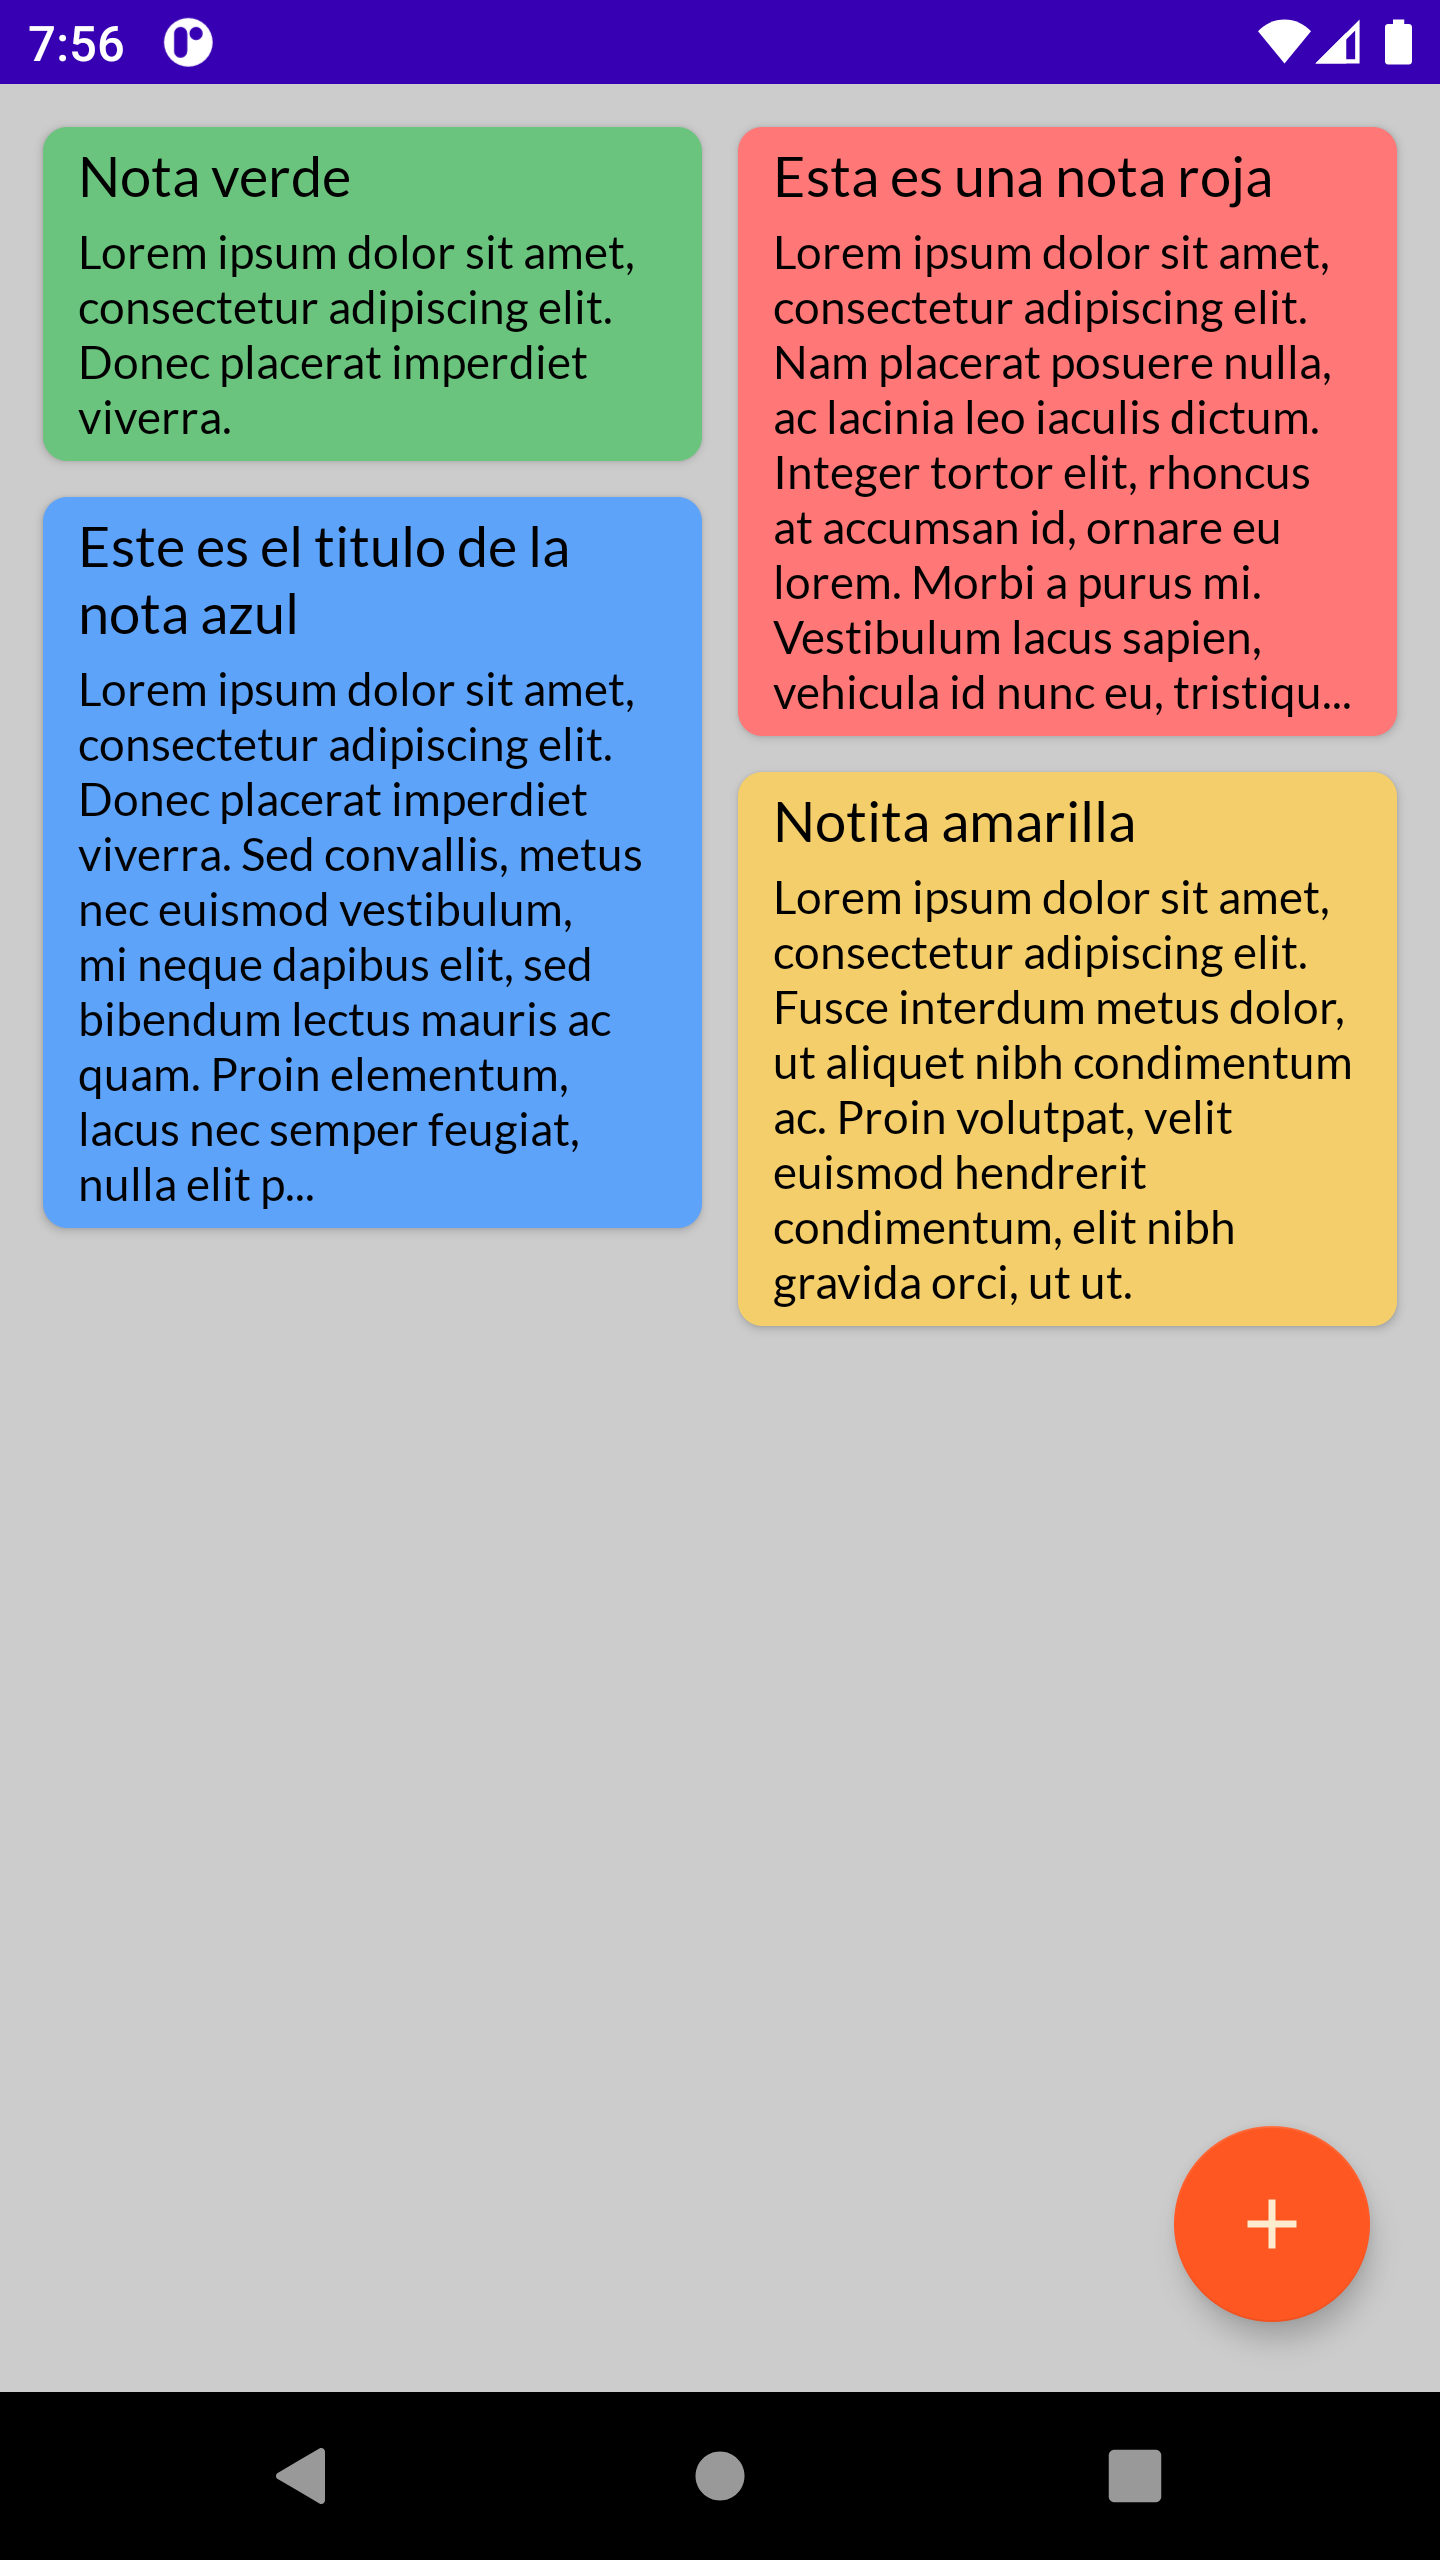
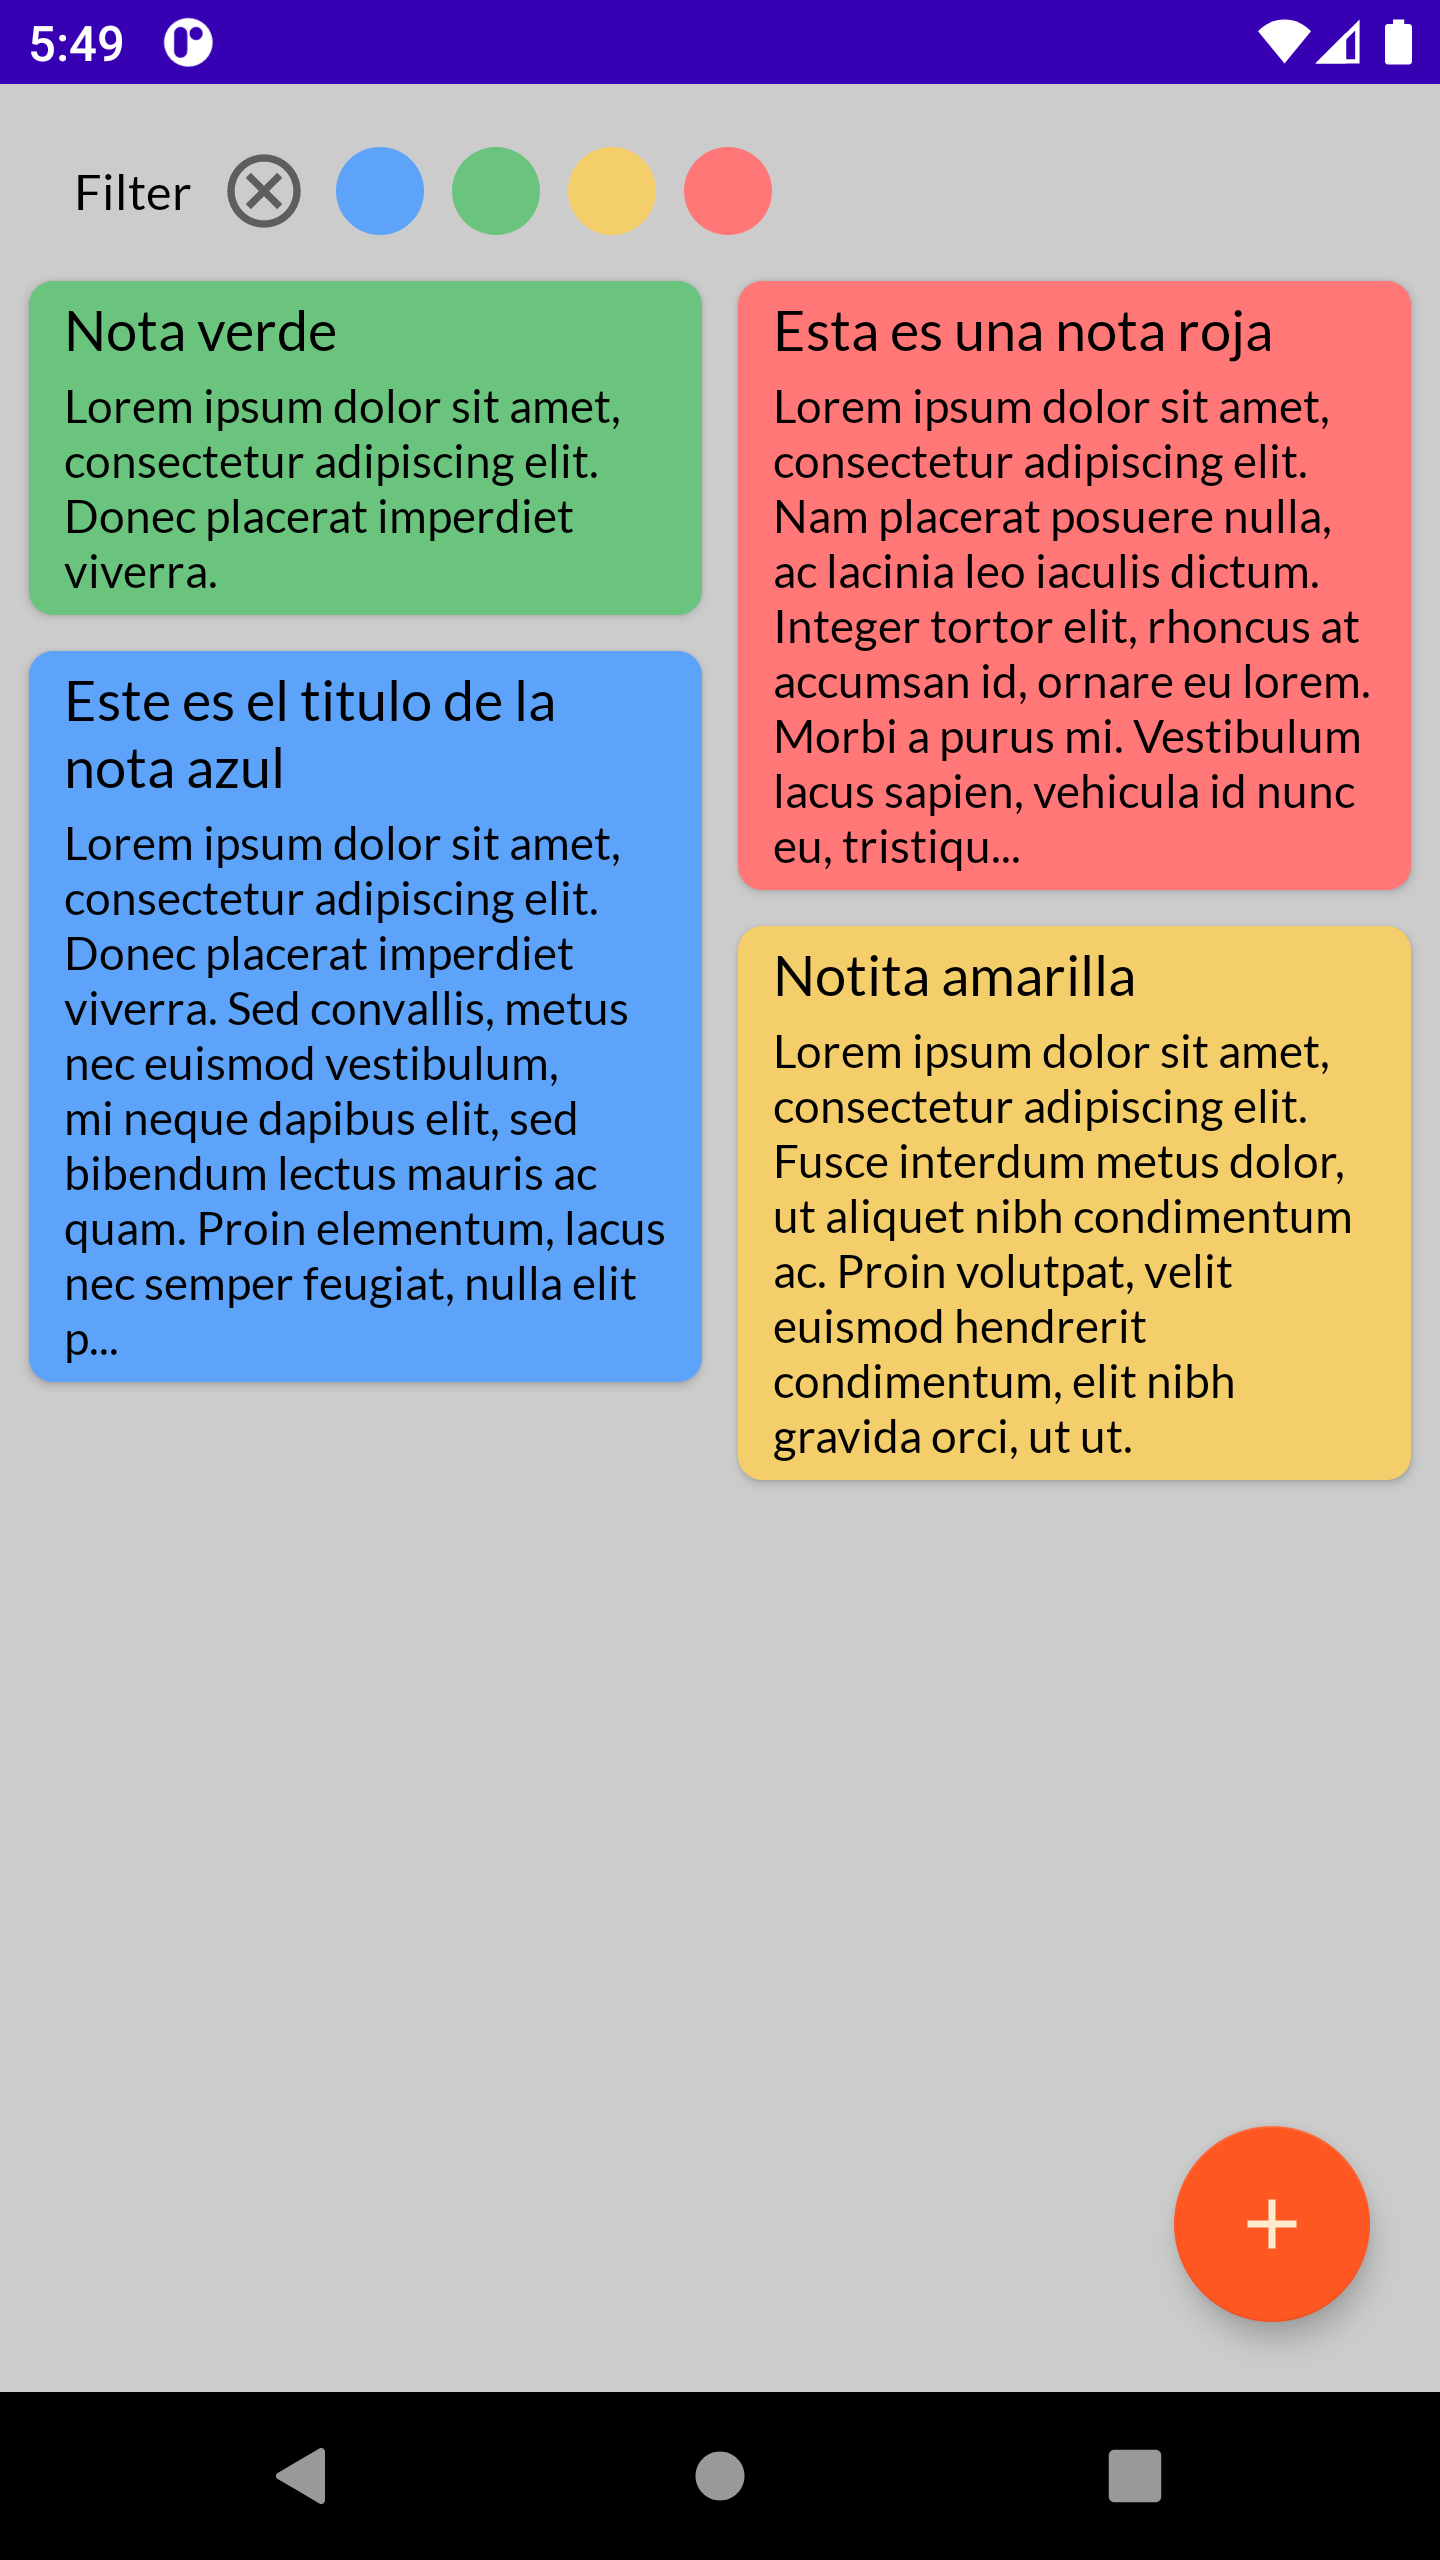
Añadida la funcionalidad de filtro de notas por color. Ahora se muestra un Toast al intentar guardar una nota vacia.

Changed region(s): [[0.0, 0.0, 1.0, 0.5938]]

diff --git a/app/src/main/java/com/example/notes/MainActivity.kt b/app/src/main/java/com/example/notes/MainActivity.kt
@@ -3,6 +3,7 @@ package com.example.notes
 import android.content.Intent
 import androidx.appcompat.app.AppCompatActivity
 import android.os.Bundle
+import android.widget.RadioGroup
 import androidx.recyclerview.widget.RecyclerView
 import com.example.notes.data.Note
 import com.example.notes.data.NoteDao
@@ -15,6 +16,7 @@ import kotlinx.coroutines.launch
 class MainActivity : AppCompatActivity() {
   lateinit var noteDao: NoteDao
   lateinit var adapter: RecyclerView.Adapter<*>
+  lateinit var dataset: List<Note>
   lateinit var noteList: MutableList<Note>
 
   override fun onCreate(savedInstanceState: Bundle?) {
@@ -28,6 +30,20 @@ class MainActivity : AppCompatActivity() {
     adapter = NotesAdapter(noteList)
     notesRecyclerView.adapter = adapter
 
+    /// Filter button
+    val filter = findViewById<RadioGroup>(R.id.note_color_filter)
+    filter.setOnCheckedChangeListener { _, id ->
+      filterDataset(
+        when (id) {
+          R.id.filter_blue  -> getColor(R.color.note_blue)
+          R.id.filter_green -> getColor(R.color.note_green)
+          R.id.filter_yellow-> getColor(R.color.note_yellow)
+          R.id.filter_red   -> getColor(R.color.note_red)
+          else -> null
+        }
+      )
+    }
+
     /// FAB button
     val fab = findViewById<FloatingActionButton>(R.id.new_note_fab)
     fab.setOnClickListener{
@@ -39,11 +55,27 @@ class MainActivity : AppCompatActivity() {
   override fun onResume() {
     super.onResume()
     CoroutineScope(Dispatchers.IO).launch {
-      noteList.clear()
-      noteList.addAll(noteDao.getAll())
+      dataset = noteDao.getAll()
       runOnUiThread {
-        adapter.notifyDataSetChanged()
+        /// clear the filter also updates the view
+        val filter = findViewById<RadioGroup>(R.id.note_color_filter)
+        filter.clearCheck()
       }
+    }
+  }
+
+  private fun updateView(data: List<Note>) {
+      noteList.clear()
+      noteList.addAll(data)
+      adapter.notifyDataSetChanged()
+  }
+
+  private fun filterDataset(color: Int?) {
+    if (color === null) {
+      updateView(dataset)
+    } else {
+      val filterData = dataset.filter { it.color == color }
+      updateView(filterData)
     }
   }
 }

diff --git a/app/src/main/java/com/example/notes/EditNote.kt b/app/src/main/java/com/example/notes/EditNote.kt
@@ -5,6 +5,7 @@ import androidx.appcompat.app.AppCompatActivity
 import android.os.Bundle
 import android.widget.EditText
 import android.widget.RadioGroup
+import android.widget.Toast
 import com.example.notes.data.Note
 import com.example.notes.data.NoteDao
 import com.example.notes.data.NotesDB
@@ -36,10 +37,15 @@ class EditNote : AppCompatActivity() {
     submitBtn.setOnClickListener {
       val title = inputTitle.text.toString().trim()
       val content = inputContent.text.toString().trim()
-      val color = getColorFromSelector()
-      val note = Note(title, color, content)
-      if (isEdition) note.id = intent.getIntExtra("id", note.id)
-      sendToDatabase(note, isEdition)
+
+      if (isEmptyOrBlank(title) or isEmptyOrBlank(content)) {
+        Toast.makeText(this, getString(R.string.toast_note_is_empty), Toast.LENGTH_SHORT).show()
+      } else {
+        val color = getColorFromSelector()
+        val note = Note(title, color, content)
+        if (isEdition) note.id = intent.getIntExtra("id", note.id)
+        sendToDatabase(note, isEdition)
+      }
     }
   }
 
@@ -79,5 +85,9 @@ class EditNote : AppCompatActivity() {
       R.id.input_note_red-> getColor(R.color.note_red)
       else -> getColor(R.color.note_blue)
     }
+  }
+
+  private fun isEmptyOrBlank(str: String): Boolean {
+    return str.isEmpty() or str.isBlank()
   }
 }
